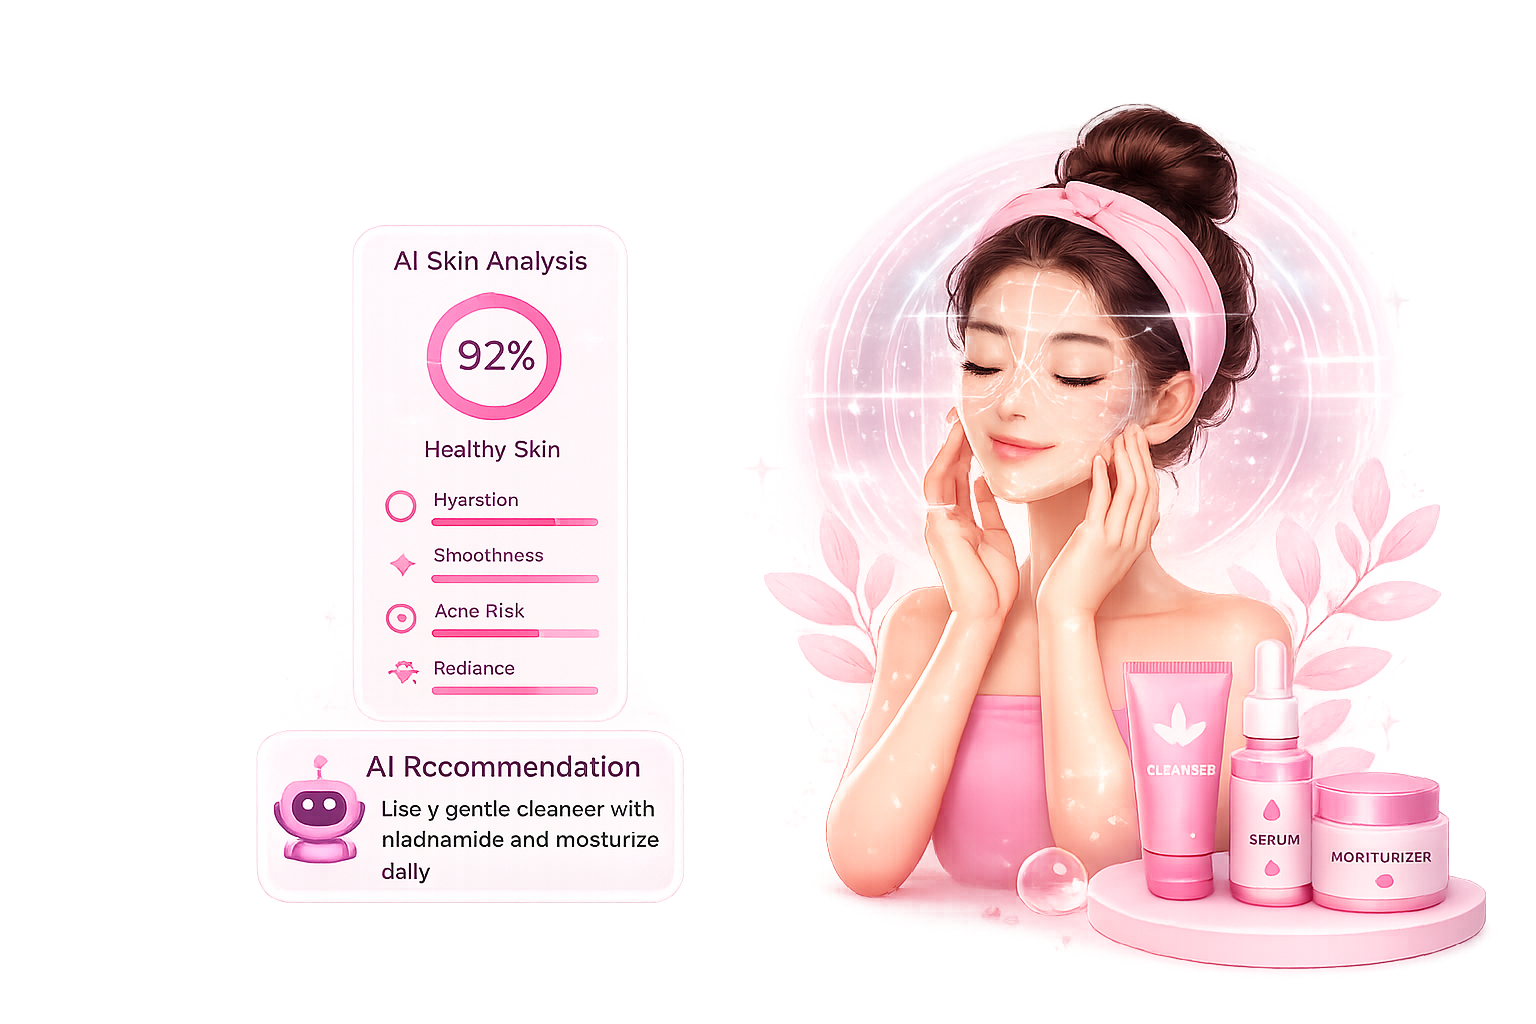
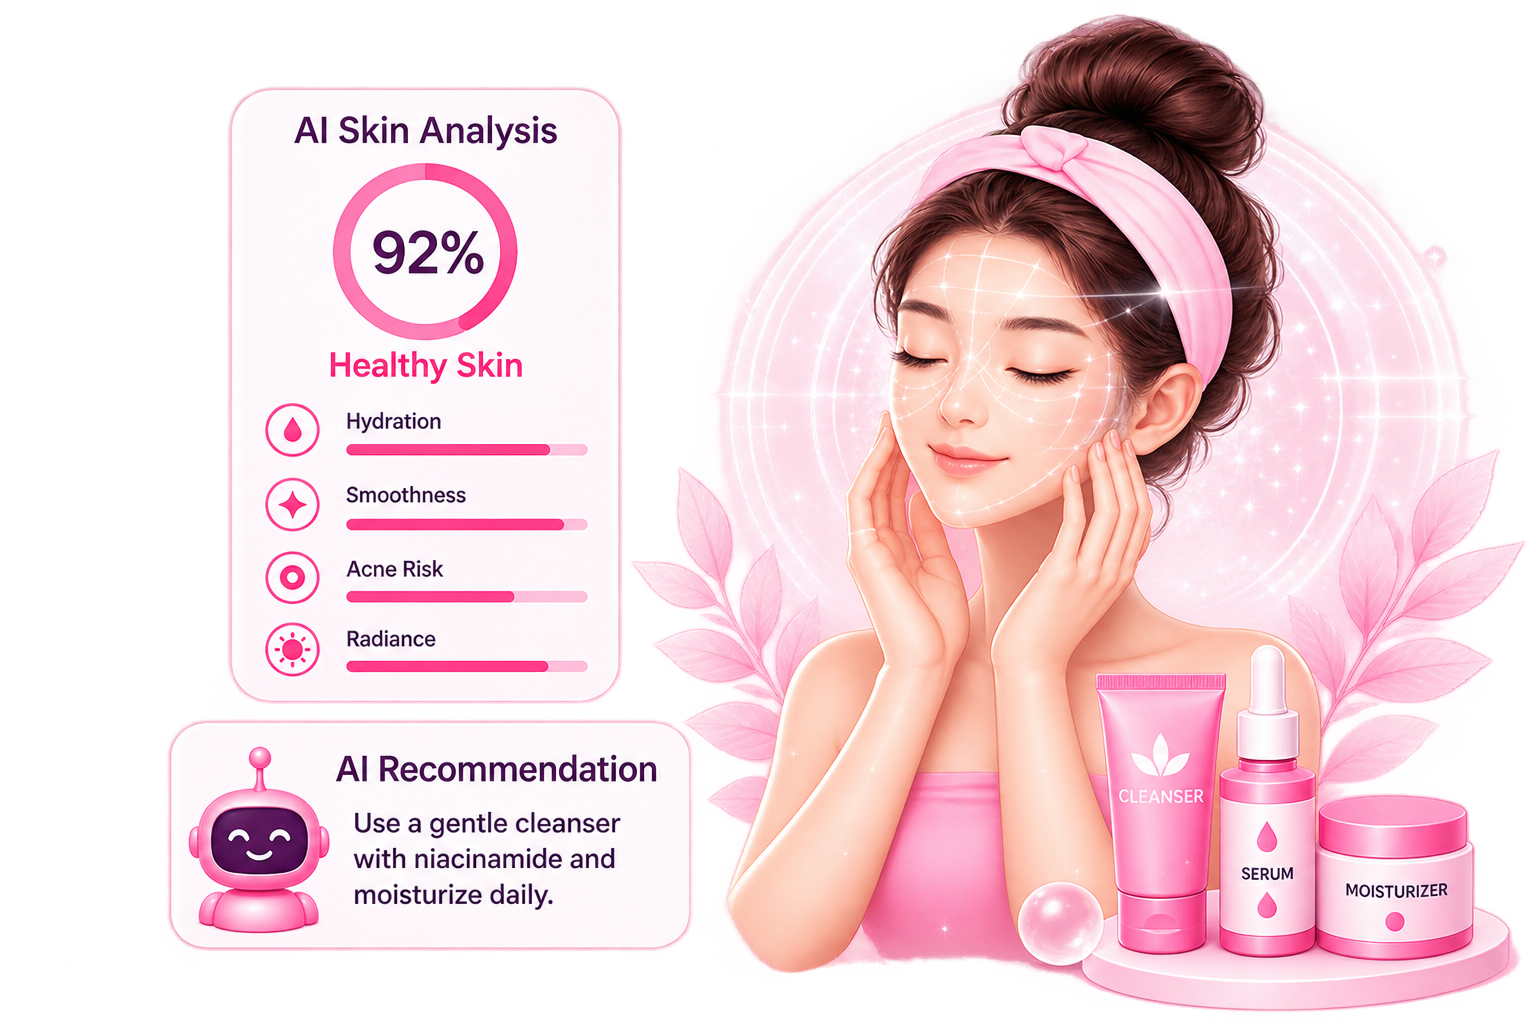
image uploading

diff --git a/templates/recommendations.html b/templates/recommendations.html
@@ -84,10 +84,10 @@
 
                         {% if product["image"] %}
 
-                        <img src="{{ product['image'] }}"
-                             class="card-img-top"
-                             alt="{{ product['name'] }}"
-                             style="height:220px; object-fit:contain;">
+                        <img src="{{ url_for('static', filename=product['image']) }}"
+                            class="card-img-top"
+                            alt="{{ product['name'] }}"
+                            style="height:220px; object-fit:contain;">
 
                         {% else %}
 

diff --git a/database.py b/database.py
@@ -56,4 +56,152 @@ conn.commit()
 print("Analysis history table is ready.")
 print("Products table is ready.")
 
+
+cursor.execute("""
+    UPDATE products
+    SET image = ?
+    WHERE name = ?
+""", (
+    "images/products/cetaphil_gentle_cleanser.jpg",
+    "Gentle Skin Cleanser"
+))
+
+conn.commit()
+
+print("Cetaphil image updated successfully!")
+
+
+# Update image paths for the next 3 products
+
+image_updates = {
+    "Salicylic Acid LHA Cleanser":
+        "images/products/minimalist_salicylic_cleanser.jpg",
+
+    "Foaming Facial Cleanser":
+        "images/products/cerave_foaming_cleanser.jpg",
+
+    "Refreshing Facial Wash":
+        "images/products/simple_refreshing_wash.jpg"
+}
+
+for product_name, image_path in image_updates.items():
+
+    cursor.execute("""
+        UPDATE products
+        SET image = ?
+        WHERE name = ?
+    """, (image_path, product_name))
+
+conn.commit()
+
+print("3 product image paths updated!")
+
+image_updates = {
+    "Hydro Boost Water Gel":
+        "images/products/neutrogena_hydro_boost.jpg",
+
+    "Moisturising Cream":
+        "images/products/cetaphil_moisturising_cream.jpg",
+
+    "Barrier Repair Moisturizer":
+        "images/products/dot_key_barrier_repair.jpg",
+
+    "Green Tea Mattifying Moisturizer":
+        "images/products/plum_green_tea_moisturizer.jpg"
+}
+
+for product_name, image_path in image_updates.items():
+
+    cursor.execute("""
+        UPDATE products
+        SET image = ?
+        WHERE name = ?
+    """, (image_path, product_name))
+
+conn.commit()
+
+print("4 moisturizer image paths updated!")
+
+image_updates = {
+    "Ultra Sheer SPF 50+":
+        "images/products/neutrogena_ultra_sheer.jpg",
+
+    "Barrier Repair Sunscreen SPF 50+":
+        "images/products/dot_key_barrier_sunscreen.jpg",
+
+    "Cica Calming Niacinamide Sunscreen":
+        "images/products/dot_key_cica_sunscreen.jpg",
+
+    "Rice Water Sheer Tinted Sunscreen":
+        "images/products/plum_rice_sunscreen.jpg"
+}
+
+for product_name, image_path in image_updates.items():
+
+    cursor.execute("""
+        UPDATE products
+        SET image = ?
+        WHERE name = ?
+    """, (image_path, product_name))
+
+conn.commit()
+
+print("4 sunscreen image paths updated!")
+
+# Update image paths for existing serum products
+
+image_updates = {
+    "10% Niacinamide Face Serum":
+        "images/products/minimalist_niacinamide_10.jpg",
+
+    "Salicylic Acid 2% Face Serum":
+        "images/products/minimalist_salicylic_serum.jpg",
+
+    "5% Niacinamide Face Serum":
+        "images/products/plum_niacinamide_5.jpg",
+
+    "Niacinamide Face Serum with Rice Water":
+        "images/products/plum_rice_serum.jpg",
+
+    "Strawberry Bright Face Serum":
+        "images/products/dot_key_strawberry_serum.jpg"
+}
+
+for product_name, image_path in image_updates.items():
+
+    cursor.execute("""
+        UPDATE products
+        SET image = ?
+        WHERE name = ?
+    """, (image_path, product_name))
+
+conn.commit()
+
+print("5 serum image paths updated!")
+
+# Update image paths for existing toner products
+
+image_updates = {
+    "PHA Face Toner":
+        "images/products/minimalist_pha_toner.jpg",
+
+    "Daily Hydrating Toner":
+        "images/products/plum_hydrating_toner.jpg",
+
+    "Niacinamide Face Toner":
+        "images/products/plum_niacinamide_toner.jpg"
+}
+
+for product_name, image_path in image_updates.items():
+
+    cursor.execute("""
+        UPDATE products
+        SET image = ?
+        WHERE name = ?
+    """, (image_path, product_name))
+
+conn.commit()
+
+print("3 toner image paths updated!")
+
 conn.close()

diff --git a/app.py b/app.py
@@ -742,12 +742,16 @@ def recommendations():
     conn = get_db_connection()
     cursor = conn.cursor()
 
+    # --------------------------------
     # Get products matching skin type
+    # --------------------------------
+
     cursor.execute("""
         SELECT *
         FROM products
-        WHERE ',' || skin_types || ',' LIKE ?
-    """, (f"%,{skin_type},%",))
+        WHERE ',' || LOWER(REPLACE(skin_types, ' ', '')) || ','
+        LIKE ?
+    """, (f"%,{skin_type.lower()},%",))
 
     all_products = cursor.fetchall()
 
@@ -761,8 +765,13 @@ def recommendations():
 
     for product in all_products:
 
-        product_sensitivity = product["sensitivity"].split(",")
+        # Convert database value into a clean list
+        product_sensitivity = [
+            value.strip().lower()
+            for value in product["sensitivity"].split(",")
+        ]
 
+        # Sensitive users
         if sensitivity == "sensitive":
 
             if (
@@ -771,14 +780,17 @@ def recommendations():
             ):
                 suitable_products.append(product)
 
+        # Somewhat sensitive users
         elif sensitivity == "somewhat_sensitive":
 
             if (
                 "sensitive" in product_sensitivity
                 or "somewhat_sensitive" in product_sensitivity
+                or "not_sensitive" in product_sensitivity
             ):
                 suitable_products.append(product)
 
+        # Non-sensitive users
         else:
 
             suitable_products.append(product)
@@ -789,8 +801,8 @@ def recommendations():
 
     categories = [
         "Face Wash",
-        "Serum",
         "Toner",
+        "Serum",
         "Moisturizer",
         "Sunscreen"
     ]
@@ -802,23 +814,31 @@ def recommendations():
         category_products = [
             product
             for product in suitable_products
-            if product["category"].lower() == category.lower()
+            if product["category"].strip().lower() == category.lower()
         ]
 
-        # Sort by price
+        # Sort products by price
         category_products.sort(
             key=lambda product: product["price"]
         )
 
-        categorized_products[category] = category_products
+        # Only add categories that have products
+        if category_products:
+            categorized_products[category] = category_products
+
+    # --------------------------------
+    # Count recommendations
+    # --------------------------------
+
+    total_products = len(suitable_products)
 
     return render_template(
         "recommendations.html",
         categorized_products=categorized_products,
         skin_type=skin_type,
-        sensitivity=sensitivity
+        sensitivity=sensitivity,
+        total_products=total_products
     )
-
 @app.route("/logout")
 def logout():
     session.pop("user", None)
